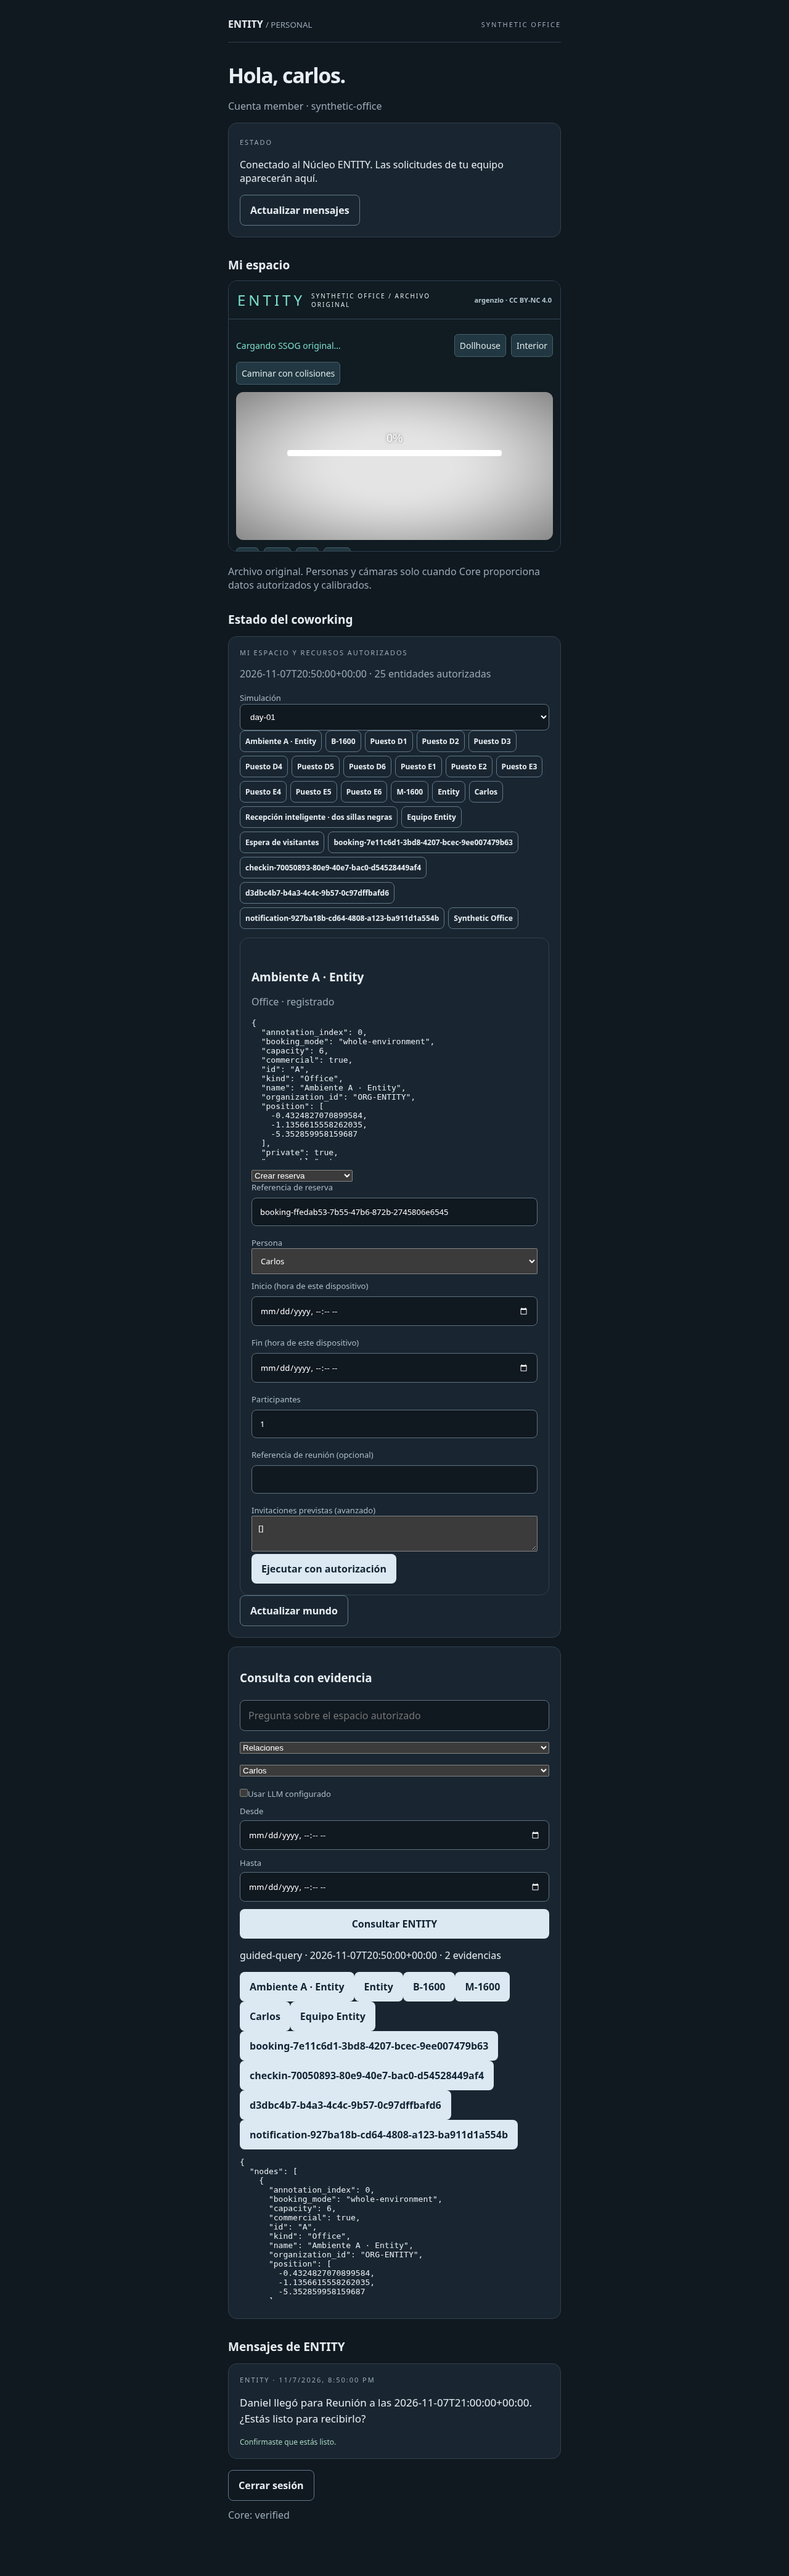
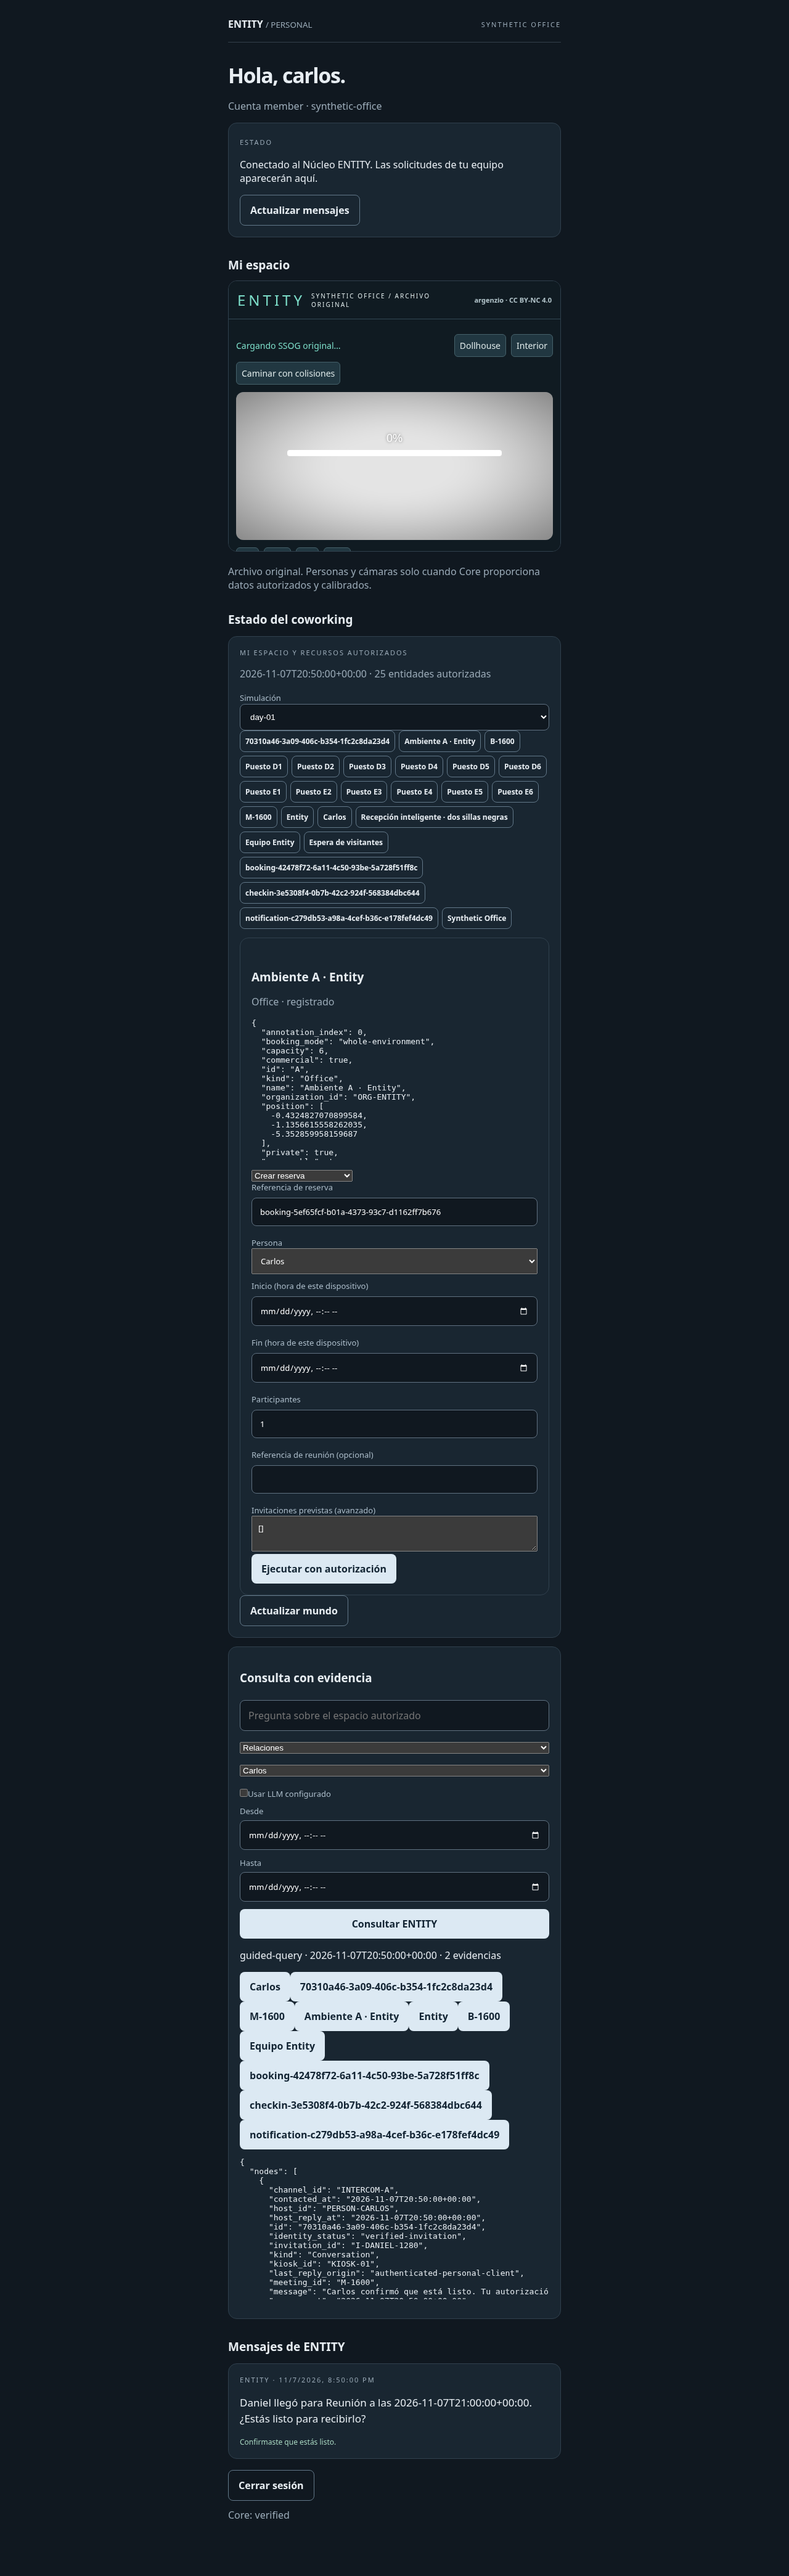
Revoke Office sessions on logout and verify current Docker persistence

Changed region(s): [[0.3125, 0.7466, 0.6562, 0.9021], [0.3125, 0.28, 0.6875, 0.3733]]

diff --git a/apps/web/src/office/operations.js b/apps/web/src/office/operations.js
@@ -4,7 +4,7 @@ import {mountReception} from './reception.js';
 // Operational screens consume persistent Core APIs. No frontend business fixtures.
 const host=document.createElement('section');
 host.id='office-operations';
-host.innerHTML='<h2>Operaciones del coworking · ENTITY Core</h2><form id="office-login"><label>Servidor<input name="api" type="url" value="http://127.0.0.1:8010"></label><label>Usuario<input name="username" autocomplete="username"></label><label>Contraseña<input name="password" type="password" autocomplete="current-password"></label><button>Conectar</button></form><p id="office-core-status" role="status">Sin conexión al Core: no se inventarán reservas, permisos ni resultados.</p><div id="office-workspace" hidden><nav id="office-modes"></nav><label>Ejecución<select id="office-run"></select></label><button id="office-refresh">Actualizar</button><label>Reconstrucción histórica<input id="office-time" type="datetime-local"></label><button id="office-reconstruct">Consultar ese instante</button><button id="office-present">Presente</button><p id="office-world-status"></p><div class="office-columns"><div id="office-entities"></div><div><h3 id="office-selection">Entidad</h3><div id="office-facts"></div><div id="office-actions"></div></div></div><section id="office-query"></section></div>';
+host.innerHTML='<h2>Operaciones del coworking · ENTITY Core</h2><form id="office-login"><label>Servidor<input name="api" type="url" value="http://127.0.0.1:8010"></label><label>Usuario<input name="username" autocomplete="username"></label><label>Contraseña<input name="password" type="password" autocomplete="current-password"></label><button>Conectar</button></form><p id="office-core-status" role="status">Sin conexión al Core: no se inventarán reservas, permisos ni resultados.</p><div id="office-workspace" hidden><nav id="office-modes"></nav><label>Ejecución<select id="office-run"></select></label><button id="office-refresh">Actualizar</button><button id="office-disconnect">Cerrar sesión</button><label>Reconstrucción histórica<input id="office-time" type="datetime-local"></label><button id="office-reconstruct">Consultar ese instante</button><button id="office-present">Presente</button><p id="office-world-status"></p><div class="office-columns"><div id="office-entities"></div><div><h3 id="office-selection">Entidad</h3><div id="office-facts"></div><div id="office-actions"></div></div></div><section id="office-query"></section></div>';
 document.querySelector('main').append(host);
 let selectedEventDetails=null;
 let currentActor=null;
@@ -20,6 +20,11 @@ host.querySelector('#office-login').onsubmit=async event=>{
  catch(error){token=null;world=null;host.querySelector('#office-workspace').hidden=true;window.dispatchEvent(new CustomEvent('office-world-cleared'));status(error.message);}
 };
 host.querySelector('#office-run').onchange=async event=>{run=event.target.value;await refresh().catch(e=>status(e.message));subscribe();};
+host.querySelector('#office-disconnect').onclick=async()=>{
+ let revoked=false;try{await request('/v1/office/auth/logout',{});revoked=true;}catch{}
+ streamController?.abort();token=null;world=null;host.querySelector('#office-workspace').hidden=true;window.dispatchEvent(new CustomEvent('office-world-cleared'));
+ status(revoked?'Sesión revocada en Core.':'Sesión local cerrada; Core no confirmó la revocación.');
+};
 host.querySelector('#office-refresh').onclick=()=>refresh().catch(e=>status(e.message));
 host.querySelector('#office-reconstruct').onclick=()=>{const value=host.querySelector('#office-time').value;if(value){at=new Date(value).toISOString();refresh().catch(e=>status(e.message));}};
 host.querySelector('#office-present').onclick=()=>{at=null;refresh().catch(e=>status(e.message));};

diff --git a/apps/web/personal.html b/apps/web/personal.html
@@ -58,7 +58,7 @@ async function refresh(){const items=await request('/v1/office/app/inbox');const
 $('connect').onclick=async()=>{try{base=$('api').value.trim().replace(/\/$/,'');if(!/^https?:\/\//.test(base))throw Error('Introduce una URL de API válida');const login=await request('/v1/office/auth/login',{method:'POST',body:JSON.stringify({username:$('username').value,password:$('password').value})});token=login.token;actor=await request('/v1/office/app/me');$('login').classList.add('hidden');$('home').classList.remove('hidden');if(!$('personal-scene').getAttribute('src'))$('personal-scene').src='./office.html?projection=personal&budget=.25';$('greeting').textContent='Hola, '+actor.actor+'.';$('identity').textContent='Cuenta '+actor.role+' · '+actor.site_id;$('demo').classList.toggle('hidden',actor.role!=='admin');$('password').value='';notice('Sesión iniciada.');await refresh();await loadWorld()}catch(e){notice(e.message,true)}};
 $('refresh').onclick=()=>refresh().catch(e=>notice(e.message,true));
 $('trigger').onclick=async()=>{try{await request('/v1/office/app/sites/'+encodeURIComponent(actor.site_id)+'/demo-arrival',{method:'POST',body:JSON.stringify({recipient:actor.actor,visitor:'Daniel',meeting_at:'16:00',meeting_title:'reunión con Entity'})});notice('Llegada simulada.');await refresh()}catch(e){notice(e.message,true)}};
-$('logout').onclick=()=>{token='';actor=null;personalWorld=null;$('personal-query').replaceChildren();sendProjection();$('home').classList.add('hidden');$('login').classList.remove('hidden');notice('Sesión local cerrada.');};
+$('logout').onclick=async()=>{let revoked=false;try{await request('/v1/office/auth/logout',{method:'POST'});revoked=true;}catch{}token='';actor=null;personalWorld=null;$('personal-query').replaceChildren();sendProjection();$('home').classList.add('hidden');$('login').classList.remove('hidden');notice(revoked?'Sesión cerrada y revocada en Core.':'Sesión local cerrada. Core no confirmó la revocación.',!revoked);};
 setInterval(()=>{if(token&&!document.hidden){refresh().catch(e=>notice('Sin actualización: '+e.message,true));loadWorld().catch(()=>{});}},3000);
 document.addEventListener('visibilitychange',()=>{if(!document.hidden&&token)refresh().catch(()=>{})});
 </script></body></html>

diff --git a/services/entity-api/app/office/api.py b/services/entity-api/app/office/api.py
@@ -6,7 +6,7 @@ from fastapi.responses import StreamingResponse
 from pydantic import Field
 from app.schemas import CoreRecord,NonBlank
 from app.connectors import Observation,AuditedRoute
-from .auth import principal,scoped,login,authenticate,authenticate
+from .auth import principal,scoped,login,authenticate
 from .storage import encode,utc,world,emit,get_run,identity
 from .service import create_run,command,resource
 from .observations import ingest
@@ -52,6 +52,13 @@ class Apply(CoreRecord):
 def sign_in(body:Login):
     from app.main import database
     with database(write=True) as db:return login(db,body.username,body.password)
+
+@router.post('/office/auth/logout')
+def sign_out(authorization:str=Header(...),actor=Depends(principal)):
+    from app.main import database
+    digest=hashlib.sha256(authorization[7:].encode()).hexdigest()
+    with database(write=True) as db:db.execute('DELETE FROM office_sessions WHERE token_hash=?',(digest,))
+    return {'revoked':True}
 
 @router.get('/office/me')
 def me(actor=Depends(principal)):return {k:v for k,v in actor.items() if k!='permissions'}

diff --git a/services/entity-api/tests/test_office.py b/services/entity-api/tests/test_office.py
@@ -162,3 +162,13 @@ class OfficeTests(unittest.TestCase):
         self.cmd('booking.create','room',{'booking_id':'new','person_id':'luis','starts_at':'2026-11-07T16:15:00-05:00','ends_at':'2026-11-07T17:00:00-05:00'})
         self.cmd('booking.create','room',{'booking_id':'next','person_id':'luis','starts_at':'2026-11-07T17:00:00-05:00','ends_at':'2026-11-07T18:00:00-05:00'})
         self.cmd('booking.extend','new',{'ends_at':'2026-11-07T17:30:00-05:00'},code=409)
+
+    def test_logout_revokes_only_current_session_and_survives_restart(self):
+        first=self.auth('luis');second=self.auth('luis')
+        response=self.client.post('/v1/office/auth/logout',headers=first)
+        self.assertEqual(response.status_code,200,response.text)
+        self.assertTrue(response.json()['revoked'])
+        main.initialize()
+        self.assertEqual(self.client.get('/v1/office/me',headers=first).status_code,401)
+        self.assertEqual(self.client.get('/v1/office/me',headers=second).status_code,200)
+        self.assertEqual(self.client.post('/v1/office/auth/logout').status_code,401)

diff --git a/scripts/phase09/smoke-office-docker.py b/scripts/phase09/smoke-office-docker.py
@@ -6,6 +6,12 @@ import httpx
 root=Path(__file__).resolve().parents[2];base='http://127.0.0.1:8010'
 credentials=json.loads((root/'.runtime/office/access.json').read_text())
 with httpx.Client(base_url=base,timeout=20) as client:
+    for _ in range(100):
+        try:
+            if client.get('/ready').status_code==200:break
+        except httpx.HTTPError:pass
+        time.sleep(.2)
+    else:raise RuntimeError('Docker Office initial readiness did not recover')
     response=client.post('/v1/office/auth/login',json={'username':'admin','password':credentials['admin']['password']});response.raise_for_status()
     headers={'Authorization':'Bearer '+response.json()['token']};prefix='/v1/sites/synthetic-office/runs/day-01'
     key='technical-smoke-'+str(uuid4())

diff --git a/docs/PHASE-09-PROGRESS.md b/docs/PHASE-09-PROGRESS.md
@@ -6,14 +6,14 @@ El acceso HTTP del ejecutor obtuvo403; el operador confirma la escena disponible
 | Subfase | Estado | Pruebas/evidencia | Commit/PR | Siguiente |
 |---|---|---|---|---|
 | 09.1 | EN CURSO | HTTP200 en Chromium remoto, escena original/collision/SSOG localizados; SSOG original remoto integrado; Vite opcional, no bloqueante | merge2d73e1d | SSOG original, anotaciones y modo walk ya verificados en baf37b3; faltan recorridos espaciales completos y zonificación operativa; Vite NO es dependencia |
-| 09.2 | PENDIENTE | — | — | Implementar y ejecutar gate 09.2 |
-| 09.3 | PENDIENTE | — | — | Implementar y ejecutar gate 09.3 |
+| 09.2 | EN CURSO | Cinco poses Core/GLB coincidentes sobre SSOG original; raíz de animación corregida | 95e5c2b,08f2295 | Completar rutas de jornada, pausa y replay espacial |
+| 09.3 | EN CURSO | Cuatro CCTV originales visibles; prueba de lectura falló por viewport, corrección publicada | c32c633 | Verificar capturas anónimas en dos cámaras y recuperación histórica |
 | 09.4 | VERIFICADA AUTOMÁTICAMENTE | Disponibilidad/ocupación independientes, concurrencia, no-show, conflicto/reasignación y eventos;64tests | Lote de jornada | Integración visual completa en09.9 pendiente |
 | 09.5 | VERIFICADA AUTOMÁTICAMENTE | HVACD afecta soloD, ticket/personas/reservas, reparación y sensor;64tests | Lote de jornada | Fuentes sintéticas; hardware no probado |
-| 09.6 | PENDIENTE | — | — | Implementar y ejecutar gate 09.6 |
+| 09.6 | EN CURSO | Reinicio de proceso HTTP, backup SQLite y Docker conservan estado/eventos; scrubbing implementado | reception-http-process.json, docker-office.json | Completar reconstrucción gráfica y filtros con evidencia SSOG |
 | 09.7 | VERIFICADA AUTOMÁTICAMENTE | Core query/evidencia/TTL/permisos/acciones/trazas, SDKOpenAI con transporte controlado ytimeout;67tests | Lote de agente | Proveedor remoto real no probado sin clave |
 | 09.8 | VERIFICADA AUTOMÁTICAMENTE | Cierre/HVAC/sobreocupación aislados, comparación y aplicación revalidada;67tests | Lote de escenarios | Efectos visuales completos dependen de09.2/09.9 |
-| 09.9 | PENDIENTE | — | — | Implementar y ejecutar gate 09.9 |
+| 09.9 | EN CURSO | UI compartida Office/personal, consultas y capacidades; E2E1280/390 PASS, CI general verde | cf79f98,c32c633 | Flujo espacial completo, Pages actual y dispositivos físicos |
 
 ## Regla de registro
 En cada gate, añadir fecha, comandos exactos, resultado PASS/FAIL/NO EJECUTADO, capturas/logs sin secretos, problemas y correcciones, SHA, estado GitHub, dependencias y próxima acción. Nunca inventar pruebas. Al reiniciar Codex, leer este documento y retomar el primer gate no verificado.

diff --git a/docs/PROJECT-STATUS.md b/docs/PROJECT-STATUS.md
@@ -2,6 +2,14 @@
 
 Última revisión manual: 2026-11-06. Este archivo se actualiza después de cada tarea de implementación. NO reemplaza inspección de código, CI ni commits.
 
+## Estado actual comprobado — Fase 09, 2026-11-07
+
+La rama codex/phase-09-autonomous-plan conserva las fases anteriores y las aportaciones de ChatGPT. Hay 74 pruebas backend aprobadas (50.075 s), seis modelos humanos con animación verificada y recepción HTTP real probada en 1280 y390 px: invitación, respuesta de Carlos, reserva íntegra de A, consulta del grafo autorizada y cierre de sesión revocado en servidor. La imagen Docker actual está saludable en8010; tras reinicio mantiene89 entidades y5 eventos, y el Core anterior de8000 sigue saludable. Ver docs/evidence/phase09.
+
+Synthetic Office sigue siendo el SSOG original. CCTV renderiza cuatro vistas originales y la prueba espacial confirma cinco poses coincidentes entre Core y personaje. La lectura de visibilidad falló por un error de viewport corregido en c32c633; su nueva comprobación está en curso. No se declara aún superado el gate de seguimiento por dos cámaras. C/D/E, puestos individuales y recepción requieren terminar la calibración visual; no se han rellenado con coordenadas supuestas. Móvil utiliza el mismo visor con la proyección filtrada por el servidor. No se han probado Android físico, micrófono real, Web Push ni un proveedor LLM remoto.
+
+Estado global EN CURSO, PR#2 sin fusionar; 09.4/09.5/09.7/09.8 tienen verificaciones funcionales, pero09.1/09.2/09.3/09.6/09.9 conservan pendientes integrales. Vite/descarga SSOG no son bloqueantes; la URL pública se verifica en el workflow Pages. No se inicia el backlog posterior ni se aprueba automáticamente ninguna fase.
+
 ## Implementado y verificado localmente en Fase 00
 - Esqueleto del monorepo, README, AGENTS.md, arquitectura y plan.
 - API FastAPI inicial con SQLite provisional y rutas de entidades, estado, relaciones y eventos.

diff --git a/docs/AGENT-WORKLOG.md b/docs/AGENT-WORKLOG.md
@@ -278,3 +278,7 @@ SSOG real ejecutó prueba42418437402 y falló por divergencia de pose; no declar
 ### 2026-11-07 — Codex, diagnóstico espacial ymediciones porzona
 RerunSSOG08f2295 prueba posicionesCore/renderer coincidentes enlos5instantesyCCTVoriginal visible, pero10lecturasvisibilidad resultanvacías; gate09.3FAIL. Encontradocálculodepíxel conrectdeazulejoCCTV mientraspickerrenderiza targetcompleto; corregidousandoelmismo viewportcompleto paraambos. Seacotan esperas deGPU/render, sinfabricar tracks. Nuevarunpendiente.
 Consulta compartida móvil: E2E1280/390PASScongrafoCarlos ysinLuis/cámarasprivadas; selecciones/inputspreservadosduranteactualizaciones. HallazgoCO2dereuniónerróneamenteatribuidoaDcorregido en nuevasjornadas: fuente virtual separada ligadaazonareunión; baseline humedad/lux/temperatura/CO2D/E porcontratosyaexistentes. 4pruebasdiariasPASS6.067s, incluyenzona correctayreinicio. Jornadasyaejecutadas no se reescriben; guionesya instalados sepreservan yrequieren nuevaejecuciónparausarcorrección.
+
+### 2026-11-07 — Codex, revocación y contenedor actualizado
+74 unittest PASS50.075s. Logout revoca solo la sesión actual y persiste tras reinicio; segunda sesión conserva acceso (prueba dirigida PASS). E2E navegador1280/390 PASS añade cierre de sesión y vaciado de proyección en el visor personal. No se guardan tokens en URL ni almacenamiento local.
+Docker reconstruido con código actual y secreto CA, TLS activo. Primer smoke falló porque se invocó login antes de estar listo el contenedor; se añadió espera real a /ready. Segundo smoke PASS:89 entidades/5 eventos idénticos tras reinicio; servicio anterior8000 saludable y conservado. Aviso Compose de contenedor huérfano corresponde al Core anterior, que NO se elimina. Evidencia docker-office.json. Estado compartido y tablero actualizados con pendientes reales, sin autoaprobación.

diff --git a/docs/CHATGPT-CODEX-HANDOFF.md b/docs/CHATGPT-CODEX-HANDOFF.md
@@ -73,3 +73,7 @@ Primeraprueba espacialconSSOGreal falló porAnimComponentSystem faltante enAppBa
 
 ## Codex — Corrección de pose y acceso, 2026-11-07
 71tests completosPASS; dosdirigidos deaccesoPASS. PruebaSSOG42418437402detectó rootmotionGLB sobrescribiendo poseCore: seintroduce contenedor estable conmodeloanimado hijo, cincoinstantesCore/rendererPASS local(sinSSOG). No declarar09.2/09.3completas hasta prueba remota. Picker usa misma cámara renderizada (clon deshabilitado carecía deprofundidadSSOG). CCTV renderactivo; survey continúa pasillo nativo. Visita host_ready autorizable solo adestino/horario dereunión conescort/presencia; separación organizacional deoficinas aplicada. Conservar geometría/anclas aúnpendientes.
+
+## Codex — Estado al publicar el siguiente lote, 2026-11-07
+74tests backend PASS50.075s; Docker actual8010 conserva89entidades/5eventos trasreinicio yCore8000saludable. Revocación de sesión implementada/testeada; E2E1280/390 verifica logout, recepción, respuesta personal, reservaA, grafo y ausencia de cámaras privadas/Luis en proyección. Consultas Office/personal comparten módulo; formularios no se reinician al refrescar.
+Última evidencia espacial08f2295: poses coincidentes en5instantes ypersona visible, pero picker devuelve0. C32c633 corrige worldToScreen que aplicaba rectdelazulejo a un targetcompleto. No marcar seguimiento verificado hasta nuevo resultado. CO2dereunión ahora tiene fuente lógica separada, baseline ambientalD/E y4testsdiariosPASS. Jornadas antiguas preservadas. Inventario visualC/D/E yrecepción no completado. Backlogpost09 no iniciado.

diff --git a/docs/PHASE-BOARD.md b/docs/PHASE-BOARD.md
@@ -27,7 +27,7 @@ Cada actualización debe contestar: ¿qué funciona hoy?, ¿qué se probó?, ¿q
 ## Fase 09 — Nuevo alcance autorizado (2026-11-07)
 | Fase | Nombre | Estado | Evidencia / siguiente paso |
 |---|---|---|---|
-| 09 | Synthetic Office: simulación integral de inteligencia espacial | EN CURSO | SSOG original integrado con evidencia1440/390px (baf37b3); backend parcial47tests PASS. Export Vite NO requerido ni bloqueante; topología de reunión, dos oficinas privadas, coworking individual, recepción y espera fijada por operador. Gates completos todavía pendientes; progreso en docs/PHASE-09-PROGRESS.md. Autorización excepcional para completar 09.1–09.9 autónomamente sin revisión humana entre subfases; revisión humana al final. |
+| 09 | Synthetic Office: simulación integral de inteligencia espacial | EN CURSO | SSOG original integrado con evidencia1440/390px (baf37b3); backend integrado74tests PASS; recepción/móvil/reserva/consulta y reinicio Docker comprobados. Export Vite NO requerido ni bloqueante; topología de reunión, dos oficinas privadas, coworking individual, recepción y espera fijada por operador. Gates completos todavía pendientes; progreso en docs/PHASE-09-PROGRESS.md. Autorización excepcional para completar 09.1–09.9 autónomamente sin revisión humana entre subfases; revisión humana al final. |
 
 Nota: el tablero anterior puede estar desactualizado frente a ramas de Codex aún no fusionadas. Verificar ramas, commits y CI antes de cambiar estados históricos.
 ## Auditoría transversal del MVP — 2026-11-07
